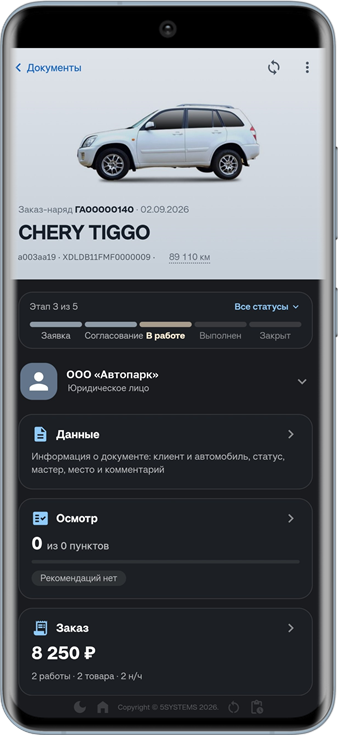
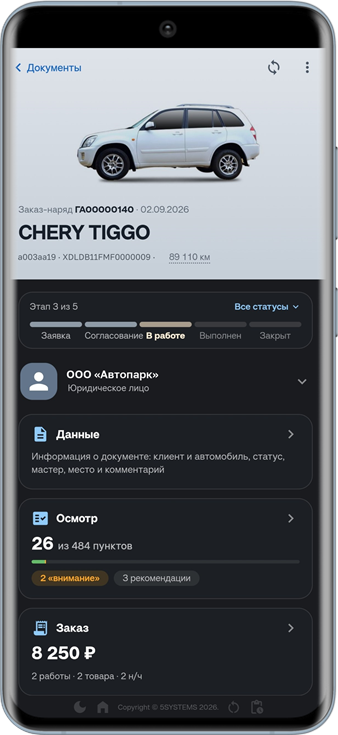
Работа с приложением 5S Remzona (черновик в Katya): на скриншоте «Обзора» блок «Осмотр» с заполненной анкетой (Катя, 05.10.2026).

Changed region(s): [[0.0888, 0.7184, 0.5621, 0.8082]]

diff --git a/articles/5S AUTO/Автосервис/Работа с приложением 5S Remzona/rabota-s-prilozheniem-5s-remzona.md b/articles/5S AUTO/Автосервис/Работа с приложением 5S Remzona/rabota-s-prilozheniem-5s-remzona.md
@@ -152,7 +152,7 @@
 - ***автомобиль*** – изображение, номер и дата заказ-наряда, марка и модель, гос. номер, VIN и пробег. Чтобы изменить пробег, нажмите на него, введите новое значение и нажмите ***«Сохранить»*** (под полем показан прежний пробег);
 - ***этап*** – шкала статусов документа (*Заявка*, *Согласование*, *В работе*, *Выполнен*, *Закрыт*) с текущим этапом, например *«Этап 3 из 5»*. Чтобы изменить статус, нажмите на этап на шкале или на ссылку *«Все статусы»* – откроется список всех статусов документа (в том числе *«Ожидание деталей»*, *«Ожидание оплаты»* и другие). Выберите статус и нажмите ***«Сохранить»***;
 - ***клиент*** – наименование и тип (частное или юридическое лицо). По стрелке справа открывается меню: *«Изменить»* – выбрать другого клиента и автомобиль, *«Информация»* – карточка клиента;
-- карточки ***«Данные»***, ***«Осмотр»*** (сколько пунктов анкет заполнено и сколько рекомендаций) и ***«Заказ»*** (сумма, количество работ и товаров, нормо-часы; если у товара не указана цена – предупреждение, например *«1 товар без цены»*) – по нажатию открывается соответствующий раздел.
+- карточки ***«Данные»***, ***«Осмотр»*** (сколько пунктов анкет заполнено, сколько из них отмечено «внимание» и сколько рекомендаций) и ***«Заказ»*** (сумма, количество работ и товаров, нормо-часы; если у товара не указана цена – предупреждение, например *«1 товар без цены»*) – по нажатию открывается соответствующий раздел.
 
 ![5S Remzona – обзор заказ-наряда](attachments/29-obzor.png)
 
